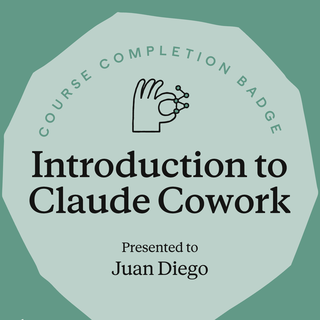
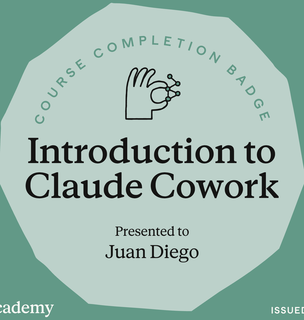
style(about): the credential marks fill their own box
Principal's direction at Gate G4. The plate's border, padding and
ground are gone, and each of the eleven files is re-cut from its
original and trimmed to its own content box before being resampled to
320px on the long edge - between 0% and 51% of each file was empty
pixels. The box now shrink-wraps the mark at one shared height, so
nothing blank sits between the artwork and the edge, the widths differ
honestly, and the Beta Gamma Sigma ribbon stays uncropped.

No mark is recoloured or masked. The white inside the Microsoft
frame's rounded corners is the issuer's own artwork - Credly's own
1024x1024 asset carries the same white card - and it stays.

This retires the uniform plate that SPEC-AboutJourney section 4 and
SPEC-Badges section 3.1(b) specified as the remedy for a mixed set.
Recorded for the completion report.

diff --git a/about/index.html b/about/index.html
@@ -459,7 +459,7 @@
               <span class="jr-period" data-i18n="about_jr_ibm_period">3 Feb 2022</span>
               <span class="jr-plate"><img class="jr-plate__img" src="../assets/img/badges/ibm-design.png"
                     alt="Basic Principles of Design" data-i18n-alt="about_jr_cred_ibm_alt"
-                    width="320" height="320" loading="lazy" decoding="async"></span>
+                    width="320" height="301" loading="lazy" decoding="async"></span>
             </div>
             <button class="timeline__toggle" type="button" aria-expanded="false" aria-controls="jr-panel-10">
               <span class="jr-head">
@@ -532,7 +532,7 @@
               <span class="jr-period" data-i18n="about_jr_gpm_period">30 Aug 2025</span>
               <span class="jr-plate"><img class="jr-plate__img" src="../assets/img/badges/google-pm.png"
                     alt="Google Project Management Professional Certificate (v2)" data-i18n-alt="about_jr_cred_gpm_alt"
-                    width="320" height="320" loading="lazy" decoding="async"></span>
+                    width="320" height="269" loading="lazy" decoding="async"></span>
             </div>
             <button class="timeline__toggle" type="button" aria-expanded="false" aria-controls="jr-panel-13">
               <span class="jr-head">
@@ -586,7 +586,7 @@
               <span class="jr-period" data-i18n="about_jr_gai_period">17 Mar 2026</span>
               <span class="jr-plate"><img class="jr-plate__img" src="../assets/img/badges/google-ai.png"
                     alt="Google AI Professional Certificate" data-i18n-alt="about_jr_cred_gai_alt"
-                    width="320" height="320" loading="lazy" decoding="async"></span>
+                    width="320" height="287" loading="lazy" decoding="async"></span>
             </div>
             <button class="timeline__toggle" type="button" aria-expanded="false" aria-controls="jr-panel-15">
               <span class="jr-head">
@@ -613,7 +613,7 @@
               <span class="jr-period" data-i18n="about_jr_gux_period">30 Apr 2026</span>
               <span class="jr-plate"><img class="jr-plate__img" src="../assets/img/badges/google-ux.png"
                     alt="Google UX Design Professional Certificate (v.3)" data-i18n-alt="about_jr_cred_gux_alt"
-                    width="320" height="320" loading="lazy" decoding="async"></span>
+                    width="320" height="268" loading="lazy" decoding="async"></span>
             </div>
             <button class="timeline__toggle" type="button" aria-expanded="false" aria-controls="jr-panel-16">
               <span class="jr-head">
@@ -687,7 +687,7 @@
               <span class="jr-period" data-i18n="about_jr_msfe_period">4 Aug 2026</span>
               <span class="jr-plate"><img class="jr-plate__img" src="../assets/img/badges/microsoft-front.png"
                     alt="Microsoft Front-End Developer Professional Certificate" data-i18n-alt="about_jr_cred_msfe_alt"
-                    width="320" height="320" loading="lazy" decoding="async"></span>
+                    width="320" height="318" loading="lazy" decoding="async"></span>
             </div>
             <button class="timeline__toggle" type="button" aria-expanded="false" aria-controls="jr-panel-19">
               <span class="jr-head">
@@ -714,7 +714,7 @@
               <span class="jr-period" data-i18n="about_jr_gpy_period">5 Aug 2026</span>
               <span class="jr-plate"><img class="jr-plate__img" src="../assets/img/badges/google-python.png"
                     alt="Google Data Analysis with Python" data-i18n-alt="about_jr_cred_gpy_alt"
-                    width="320" height="320" loading="lazy" decoding="async"></span>
+                    width="320" height="268" loading="lazy" decoding="async"></span>
             </div>
             <button class="timeline__toggle" type="button" aria-expanded="false" aria-controls="jr-panel-20">
               <span class="jr-head">
@@ -741,7 +741,7 @@
               <span class="jr-period" data-i18n="about_jr_c101_period">24 Aug 2026</span>
               <span class="jr-plate"><img class="jr-plate__img" src="../assets/img/badges/academy-101.png"
                     alt="Claude 101" data-i18n-alt="about_jr_cred_c101_alt"
-                    width="320" height="320" loading="lazy" decoding="async"></span>
+                    width="304" height="320" loading="lazy" decoding="async"></span>
             </div>
             <button class="timeline__toggle" type="button" aria-expanded="false" aria-controls="jr-panel-21">
               <span class="jr-head">
@@ -768,7 +768,7 @@
               <span class="jr-period" data-i18n="about_jr_ccow_period">24 Aug 2026</span>
               <span class="jr-plate"><img class="jr-plate__img" src="../assets/img/badges/academy-cowork.png"
                     alt="Introduction to Claude Cowork" data-i18n-alt="about_jr_cred_ccow_alt"
-                    width="320" height="320" loading="lazy" decoding="async"></span>
+                    width="304" height="320" loading="lazy" decoding="async"></span>
             </div>
             <button class="timeline__toggle" type="button" aria-expanded="false" aria-controls="jr-panel-22">
               <span class="jr-head">
@@ -795,7 +795,7 @@
               <span class="jr-period" data-i18n="about_jr_ccod_period">24 Aug 2026</span>
               <span class="jr-plate"><img class="jr-plate__img" src="../assets/img/badges/academy-code-101.png"
                     alt="Claude Code 101" data-i18n-alt="about_jr_cred_ccod_alt"
-                    width="320" height="320" loading="lazy" decoding="async"></span>
+                    width="304" height="320" loading="lazy" decoding="async"></span>
             </div>
             <button class="timeline__toggle" type="button" aria-expanded="false" aria-controls="jr-panel-23">
               <span class="jr-head">

diff --git a/assets/css/pages/about/evolution.css b/assets/css/pages/about/evolution.css
@@ -420,26 +420,25 @@ html[data-theme="light"] #evolution .jr-mark__img { filter: invert(1); }
   #evolution .jr-chip { transition: none; }
 }
 
-/* ---- JOURNEY · the credential plate (S10-B) ----
-   One ground, one padding, one size for all eleven marks, so two opaque slabs
-   (microsoft-front, ibm-design), a near-opaque one (forward), three cropped
-   nonagons on their own ground and five transparent marks read as one set.
-   --surface-card is defined in :root and again under html[data-theme="light"],
-   so the plate flips with the theme instead of relying on one value. */
+/* ---- JOURNEY · the credential marks (S10-B) ----
+   The mark fills its own box: no plate ground, no border, no padding, so
+   nothing blank sits between the artwork and the edge of the badge area. The
+   box shrink-wraps each mark at one shared height, which keeps the row
+   rhythm even while the widths differ - and keeps the Beta Gamma Sigma
+   ribbon uncropped, which F11 section F11-d requires.
+
+   This retires the uniform plate that SPEC-AboutJourney section 4 and
+   SPEC-Badges section 3.1(b) specified. Principal's direction at Gate G4.
+   The files themselves are trimmed to their own content box; no mark is
+   recoloured, and the white inside the Microsoft frame's rounded corners is
+   the issuer's own artwork and stays. */
 #evolution .jr-plate {
   display: inline-flex;
   align-items: center;
-  justify-content: center;
-  width: 2.25rem;
-  height: 2.25rem;
-  padding: 0.2rem;
-  background: var(--surface-card);
-  border: 1px solid var(--color-border-soft);
 }
 #evolution .jr-plate__img {
-  max-width: 100%;
-  max-height: 100%;
+  height: 2rem;
   width: auto;
-  height: auto;
+  max-width: 4.5rem;
   object-fit: contain;
 }
